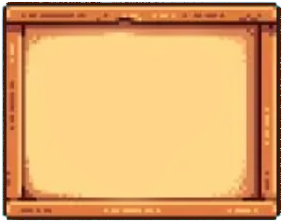
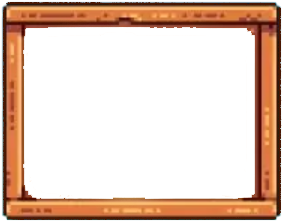
feat: 提交更改九宫格

diff --git a/src/components/ui/NineSliceButton.tsx b/src/components/ui/NineSliceButton.tsx
@@ -1,8 +1,8 @@
-import { forwardRef, type ButtonHTMLAttributes } from 'react'
+import { forwardRef, useEffect, useMemo, useRef, type ButtonHTMLAttributes } from 'react'
 import { useNineSliceBackground } from '../../hooks/useNineSliceBackground'
 import './NineSliceButton.css'
 
-type NineSliceButtonVariant = 'default' | 'primary' | 'dashed' | 'text' | 'link'
+type NineSliceButtonVariant = 'default' | 'primary' | 'warning' | 'dashed' | 'text' | 'link'
 type NineSliceButtonSize = 'small' | 'medium' | 'large'
 
 export type NineSliceButtonProps = ButtonHTMLAttributes<HTMLButtonElement> & {
@@ -22,6 +22,24 @@ const cls = (...classNames: Array<string | false | undefined>) => classNames.fil
 
 const DEFAULT_INSETS = { top: 8, right: 8, bottom: 8, left: 8 }
 
+const COLOR_MAP: Record<Exclude<NineSliceButtonVariant, 'dashed' | 'text' | 'link'>, { bg: string; text: string }> = {
+  default: { bg: '#f6e3b4', text: '#3b2b1f' },
+  primary: { bg: '#4f73c9', text: '#ffffff' },
+  warning: { bg: '#cc7d2b', text: '#fff7e6' },
+}
+
+const drawDashedBorder = (ctx: CanvasRenderingContext2D, width: number, height: number, dpr: number) => {
+  const lineWidth = Math.max(1, Math.round(dpr))
+  const dashLength = 6 * dpr
+  const gapLength = 4 * dpr
+
+  ctx.clearRect(0, 0, width, height)
+  ctx.strokeStyle = '#6f5135'
+  ctx.lineWidth = lineWidth
+  ctx.setLineDash([dashLength, gapLength])
+  ctx.strokeRect(lineWidth / 2, lineWidth / 2, width - lineWidth, height - lineWidth)
+}
+
 const NineSliceButton = forwardRef<HTMLButtonElement, NineSliceButtonProps>(
   (
     {
@@ -36,7 +54,15 @@ const NineSliceButton = forwardRef<HTMLButtonElement, NineSliceButtonProps>(
     },
     ref
   ) => {
-    const useCanvasBackground = variant === 'default' || variant === 'primary' || variant === 'dashed'
+    const imageVariant = variant === 'default' || variant === 'primary' || variant === 'warning'
+    const dashedVariant = variant === 'dashed'
+
+    const tone = useMemo(() => {
+      if (variant === 'default' || variant === 'primary' || variant === 'warning') {
+        return COLOR_MAP[variant]
+      }
+      return null
+    }, [variant])
 
     const { hostRef, canvasProps } = useNineSliceBackground({
       src: backgroundSrc,
@@ -44,7 +70,56 @@ const NineSliceButton = forwardRef<HTMLButtonElement, NineSliceButtonProps>(
       className: 'nine-slice-button__canvas',
       zIndex: 0,
       imageSmoothingEnabled: false,
+      backgroundColor: tone?.bg,
     })
+
+    const dashedCanvasRef = useRef<HTMLCanvasElement | null>(null)
+
+    useEffect(() => {
+      if (!dashedVariant) {
+        return
+      }
+
+      const canvas = dashedCanvasRef.current
+      if (!canvas) {
+        return
+      }
+
+      const redraw = () => {
+        const width = Math.round(canvas.clientWidth)
+        const height = Math.round(canvas.clientHeight)
+        if (width <= 0 || height <= 0) {
+          return
+        }
+
+        const dpr = window.devicePixelRatio || 1
+        const targetWidth = Math.max(1, Math.round(width * dpr))
+        const targetHeight = Math.max(1, Math.round(height * dpr))
+
+        if (canvas.width !== targetWidth || canvas.height !== targetHeight) {
+          canvas.width = targetWidth
+          canvas.height = targetHeight
+          canvas.style.width = `${width}px`
+          canvas.style.height = `${height}px`
+        }
+
+        const ctx = canvas.getContext('2d')
+        if (!ctx) {
+          return
+        }
+        drawDashedBorder(ctx, targetWidth, targetHeight, dpr)
+      }
+
+      redraw()
+      const observer = new ResizeObserver(redraw)
+      observer.observe(canvas)
+      window.addEventListener('resize', redraw)
+
+      return () => {
+        observer.disconnect()
+        window.removeEventListener('resize', redraw)
+      }
+    }, [dashedVariant])
 
     return (
       <button
@@ -58,9 +133,14 @@ const NineSliceButton = forwardRef<HTMLButtonElement, NineSliceButtonProps>(
           className
         )}
       >
-        {useCanvasBackground ? (
+        {imageVariant ? (
           <span className="nine-slice-button__bg" ref={hostRef as (node: HTMLSpanElement | null) => void}>
             <canvas {...canvasProps} />
+          </span>
+        ) : null}
+        {dashedVariant ? (
+          <span className="nine-slice-button__bg">
+            <canvas ref={dashedCanvasRef} className="nine-slice-button__canvas" aria-hidden />
           </span>
         ) : null}
         <span className="nine-slice-button__content">{children}</span>

diff --git a/src/components/ui/NineSliceButton.css b/src/components/ui/NineSliceButton.css
@@ -1,11 +1,12 @@
 .nine-slice-button {
-  @apply inline-flex items-center justify-center px-4 py-2 text-sm font-medium cursor-pointer;
+  @apply inline-flex items-center justify-center text-sm font-medium cursor-pointer;
   position: relative;
   overflow: hidden;
   border: none;
   color: var(--color-text);
   box-shadow: var(--shadow-pixel-sm);
   background: transparent;
+  padding: 0.5rem 1rem;
 }
 
 .nine-slice-button__bg {
@@ -17,11 +18,14 @@
 
 .nine-slice-button__canvas {
   display: block;
+  width: 100%;
+  height: 100%;
 }
 
 .nine-slice-button__content {
   position: relative;
   z-index: 1;
+  line-height: 1.2;
 }
 
 .nine-slice-button:hover:not(:disabled) {
@@ -34,13 +38,21 @@
   box-shadow: none;
 }
 
-.nine-slice-button--primary {
-  color: var(--color-text-light);
-  filter: saturate(1.1) brightness(1.03);
+.nine-slice-button--default {
+  color: #3b2b1f;
 }
 
-.nine-slice-button--dashed .nine-slice-button__bg {
-  opacity: 0.92;
+.nine-slice-button--primary {
+  color: #ffffff;
+}
+
+.nine-slice-button--warning {
+  color: #fff7e6;
+}
+
+.nine-slice-button--dashed {
+  color: #3b2b1f;
+  background: #f6e3b4;
 }
 
 .nine-slice-button--text {
@@ -57,6 +69,8 @@
   background: transparent;
   box-shadow: none;
   color: var(--color-primary);
+  text-decoration: underline;
+  text-underline-offset: 3px;
 }
 
 .nine-slice-button--link:hover:not(:disabled) {
@@ -65,11 +79,13 @@
 }
 
 .nine-slice-button--small {
-  @apply px-3 py-1 text-xs;
+  @apply text-xs;
+  padding: 0.35rem 0.75rem;
 }
 
 .nine-slice-button--large {
-  @apply px-6 py-3 text-base;
+  @apply text-base;
+  padding: 0.75rem 1.25rem;
 }
 
 .nine-slice-button--block {

diff --git a/src/hooks/useNineSliceBackground.ts b/src/hooks/useNineSliceBackground.ts
@@ -20,6 +20,7 @@ export type NineSliceBackgroundOptions = {
   imageRendering?: CSSProperties['imageRendering']
   zIndex?: number
   autoRedraw?: boolean
+  backgroundColor?: string
 }
 
 const imageCache = new Map<string, Promise<LoadedImage>>()
@@ -63,6 +64,7 @@ export const useNineSliceBackground = ({
   imageRendering = 'pixelated',
   zIndex = 0,
   autoRedraw = true,
+  backgroundColor,
 }: NineSliceBackgroundOptions) => {
   const hostRef = useRef<HTMLElement | null>(null)
   const canvasRef = useRef<HTMLCanvasElement | null>(null)
@@ -109,6 +111,11 @@ export const useNineSliceBackground = ({
     ctx.clearRect(0, 0, targetWidth, targetHeight)
     ctx.imageSmoothingEnabled = imageSmoothingEnabled
 
+    if (backgroundColor) {
+      ctx.fillStyle = backgroundColor
+      ctx.fillRect(0, 0, targetWidth, targetHeight)
+    }
+
     drawNineSlice(ctx, {
       image: image.element,
       sourceWidth: image.width,
@@ -123,7 +130,7 @@ export const useNineSliceBackground = ({
       },
       clearBeforeDraw: false,
     })
-  }, [imageSmoothingEnabled, insets.bottom, insets.left, insets.right, insets.top])
+  }, [backgroundColor, imageSmoothingEnabled, insets.bottom, insets.left, insets.right, insets.top])
 
   useEffect(() => {
     let cancelled = false
